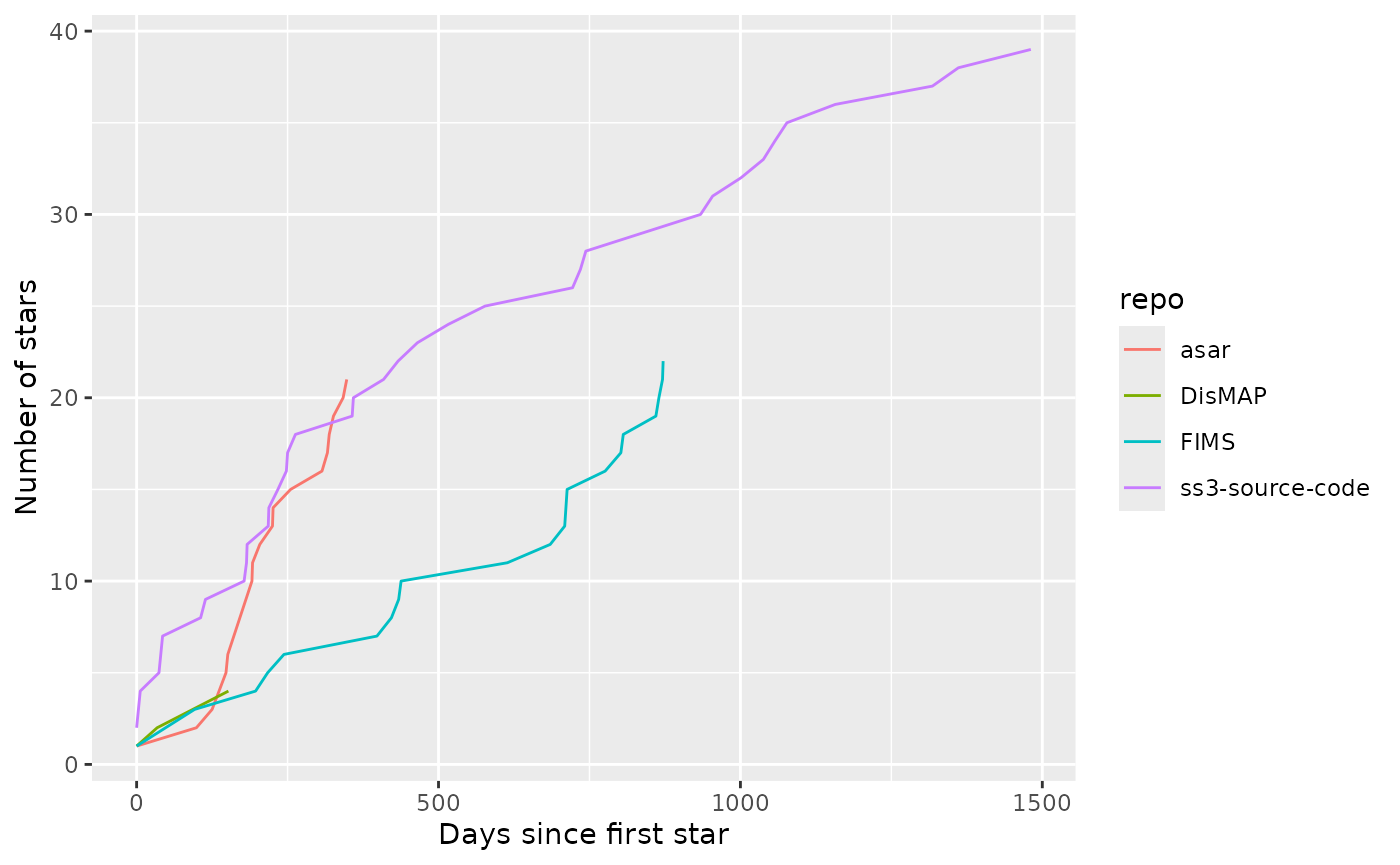
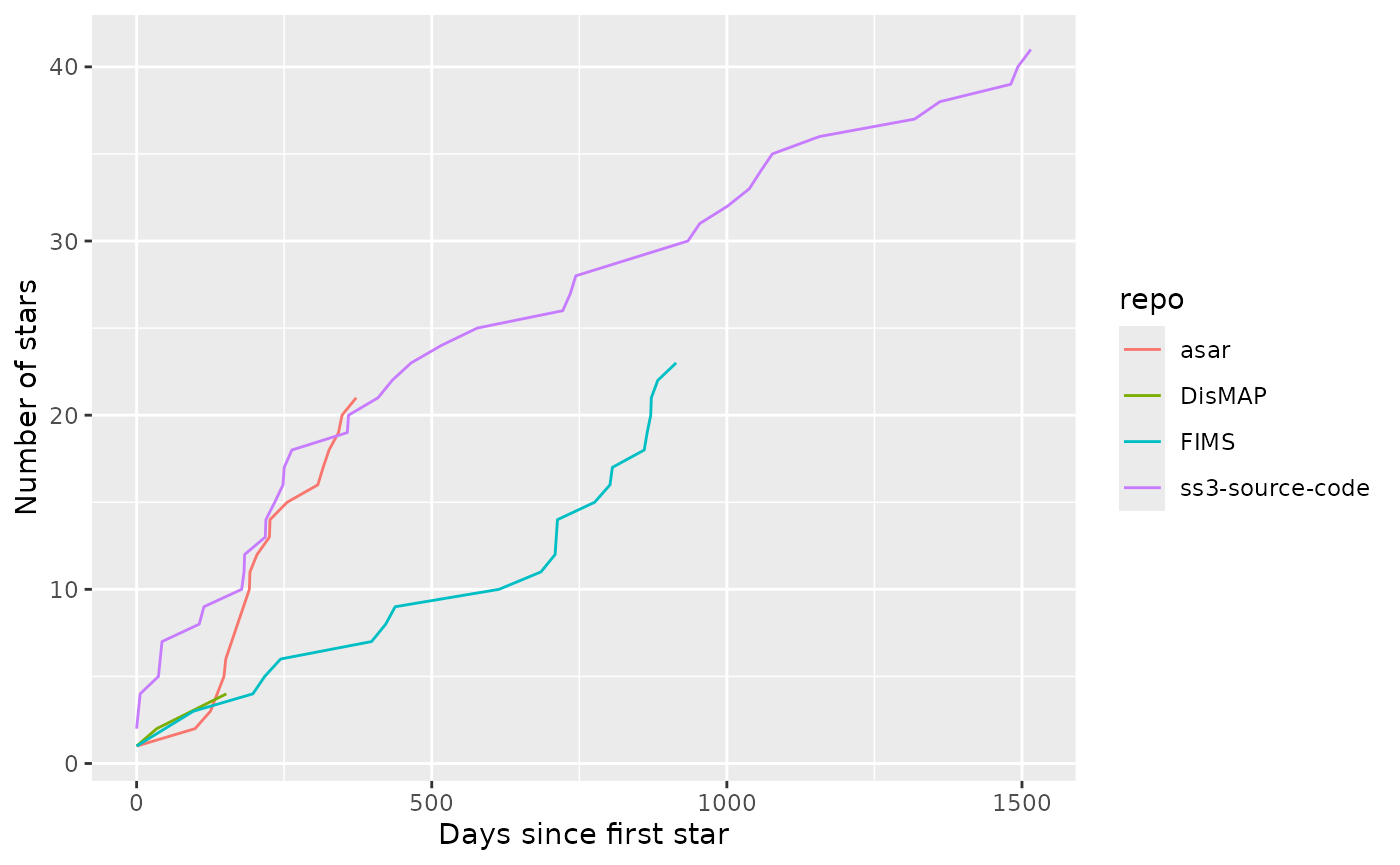
Built site for projectstats@0.0.0.9000: 07ed96b

diff --git a/articles/NSAP_summary.html b/articles/NSAP_summary.html
@@ -135,12 +135,12 @@ fork of someone else’s work.</p>
 </tr>
 <tr class="even">
 <td align="left">e-perl-NOAA</td>
-<td align="right">4</td>
+<td align="right">5</td>
 <td align="right">17</td>
 </tr>
 <tr class="odd">
 <td align="left">k-doering-NOAA</td>
-<td align="right">10</td>
+<td align="right">24</td>
 <td align="right">16</td>
 </tr>
 <tr class="even">
@@ -151,12 +151,12 @@ fork of someone else’s work.</p>
 <tr class="odd">
 <td align="left">Bai-Li-NOAA</td>
 <td align="right">6</td>
-<td align="right">12</td>
+<td align="right">11</td>
 </tr>
 <tr class="even">
 <td align="left">Schiano-NOAA</td>
-<td align="right">6</td>
-<td align="right">6</td>
+<td align="right">7</td>
+<td align="right">7</td>
 </tr>
 <tr class="odd">
 <td align="left">Andrea-Havron-NOAA</td>
@@ -170,15 +170,20 @@ fork of someone else’s work.</p>
 </tr>
 <tr class="odd">
 <td align="left">Melissa-Karp</td>
-<td align="right">2</td>
+<td align="right">3</td>
 <td align="right">3</td>
 </tr>
 <tr class="even">
+<td align="left">RoselynAguila-NOAA</td>
+<td align="right">NA</td>
+<td align="right">2</td>
+</tr>
+<tr class="odd">
 <td align="left">PatrickLynch-NOAA</td>
 <td align="right">2</td>
 <td align="right">1</td>
 </tr>
-<tr class="odd">
+<tr class="even">
 <td align="left">sbreitbart-NOAA</td>
 <td align="right">2</td>
 <td align="right">1</td>
@@ -203,12 +208,12 @@ Number of stars since the first day a repository was starred.
 
       <footer><div class="copyright">
   <p></p>
-<p>Developed by Christine Stawitz.</p>
+<p>Developed by Kelli F. Johnson, Christine C. Stawitz.</p>
 </div>
 
 <div class="pkgdown">
   <p></p>
-<p>Site built with <a href="https://pkgdown.r-lib.org/" class="external-link">pkgdown</a> 2.1.1.</p>
+<p>Site built with <a href="https://pkgdown.r-lib.org/" class="external-link">pkgdown</a> 2.1.2.</p>
 </div>
 
       </footer>

diff --git a/authors.html b/authors.html
@@ -50,7 +50,11 @@
 
 
       <ul class="list-unstyled"><li>
-          <p><strong>Christine Stawitz</strong>. Author, maintainer.
+          <p><strong>Kelli F. Johnson</strong>. Author, maintainer. <a href="https://orcid.org/0000-0002-5149-451X" target="orcid.widget" aria-label="ORCID" class="external-link"><span class="fab fa-orcid orcid" aria-hidden="true"></span></a>
+          </p>
+        </li>
+        <li>
+          <p><strong>Christine C. Stawitz</strong>. Author. <a href="https://orcid.org/0000-0003-3122-4501" target="orcid.widget" aria-label="ORCID" class="external-link"><span class="fab fa-orcid orcid" aria-hidden="true"></span></a>
           </p>
         </li>
       </ul></div>
@@ -62,13 +66,13 @@
     </div>
 
 
-    <p>Stawitz C (2025).
+    <p>Johnson KF, Stawitz CC (2025).
 <em>projectstats: Write Emails from Github API Outputs</em>.
 R package version 0.0.0.9000.
 </p>
     <pre>@Manual{,
   title = {projectstats: Write Emails from Github API Outputs},
-  author = {Christine Stawitz},
+  author = {Kelli F. Johnson and Christine C. Stawitz},
   year = {2025},
   note = {R package version 0.0.0.9000},
 }</pre>
@@ -80,11 +84,11 @@ R package version 0.0.0.9000.
 
 
       <footer><div class="copyright">
-  <p></p><p>Developed by Christine Stawitz.</p>
+  <p></p><p>Developed by Kelli F. Johnson, Christine C. Stawitz.</p>
 </div>
 
 <div class="pkgdown">
-  <p></p><p>Site built with <a href="https://pkgdown.r-lib.org/" class="external-link">pkgdown</a> 2.1.1.</p>
+  <p></p><p>Site built with <a href="https://pkgdown.r-lib.org/" class="external-link">pkgdown</a> 2.1.2.</p>
 </div>
 
       </footer></div>

diff --git a/index.html b/index.html
@@ -125,7 +125,8 @@
 <div class="developers">
 <h2 data-toc-skip>Developers</h2>
 <ul class="list-unstyled">
-<li>Christine Stawitz <br><small class="roles"> Author, maintainer </small>  </li>
+<li>Kelli F. Johnson <br><small class="roles"> Author, maintainer </small> <a href="https://orcid.org/0000-0002-5149-451X" target="orcid.widget" aria-label="ORCID" class="external-link"><span class="fab fa-orcid orcid" aria-hidden="true"></span></a>  </li>
+<li>Christine C. Stawitz <br><small class="roles"> Author </small> <a href="https://orcid.org/0000-0003-3122-4501" target="orcid.widget" aria-label="ORCID" class="external-link"><span class="fab fa-orcid orcid" aria-hidden="true"></span></a>  </li>
 </ul>
 </div>
 
@@ -137,12 +138,12 @@
 
       <footer><div class="copyright">
   <p></p>
-<p>Developed by Christine Stawitz.</p>
+<p>Developed by Kelli F. Johnson, Christine C. Stawitz.</p>
 </div>
 
 <div class="pkgdown">
   <p></p>
-<p>Site built with <a href="https://pkgdown.r-lib.org/" class="external-link">pkgdown</a> 2.1.1.</p>
+<p>Site built with <a href="https://pkgdown.r-lib.org/" class="external-link">pkgdown</a> 2.1.2.</p>
 </div>
 
       </footer>

diff --git a/reference/build_email.html b/reference/build_email.html
@@ -110,11 +110,11 @@ using <code><a href="https://rstudio.github.io/blastula/reference/smtp_send.html
 
 
       <footer><div class="copyright">
-  <p></p><p>Developed by Christine Stawitz.</p>
+  <p></p><p>Developed by Kelli F. Johnson, Christine C. Stawitz.</p>
 </div>
 
 <div class="pkgdown">
-  <p></p><p>Site built with <a href="https://pkgdown.r-lib.org/" class="external-link">pkgdown</a> 2.1.1.</p>
+  <p></p><p>Site built with <a href="https://pkgdown.r-lib.org/" class="external-link">pkgdown</a> 2.1.2.</p>
 </div>
 
       </footer></div>

diff --git a/reference/get_repositories.html b/reference/get_repositories.html
@@ -120,11 +120,11 @@ are:</p><ul><li><p>login: A string with the provided GitHub user name or organiz
 
 
       <footer><div class="copyright">
-  <p></p><p>Developed by Christine Stawitz.</p>
+  <p></p><p>Developed by Kelli F. Johnson, Christine C. Stawitz.</p>
 </div>
 
 <div class="pkgdown">
-  <p></p><p>Site built with <a href="https://pkgdown.r-lib.org/" class="external-link">pkgdown</a> 2.1.1.</p>
+  <p></p><p>Site built with <a href="https://pkgdown.r-lib.org/" class="external-link">pkgdown</a> 2.1.2.</p>
 </div>
 
       </footer></div>

diff --git a/reference/get_issues.html b/reference/get_issues.html
@@ -133,11 +133,11 @@ entries are NULL if it was in fact an issue. Columns include <code>url</code>,
 
 
       <footer><div class="copyright">
-  <p></p><p>Developed by Christine Stawitz.</p>
+  <p></p><p>Developed by Kelli F. Johnson, Christine C. Stawitz.</p>
 </div>
 
 <div class="pkgdown">
-  <p></p><p>Site built with <a href="https://pkgdown.r-lib.org/" class="external-link">pkgdown</a> 2.1.1.</p>
+  <p></p><p>Site built with <a href="https://pkgdown.r-lib.org/" class="external-link">pkgdown</a> 2.1.2.</p>
 </div>
 
       </footer></div>

diff --git a/reference/get_stargazers.html b/reference/get_stargazers.html
@@ -101,11 +101,11 @@ star was added to the repository compared when this star was added (day).</p>
 
 
       <footer><div class="copyright">
-  <p></p><p>Developed by Christine Stawitz.</p>
+  <p></p><p>Developed by Kelli F. Johnson, Christine C. Stawitz.</p>
 </div>
 
 <div class="pkgdown">
-  <p></p><p>Site built with <a href="https://pkgdown.r-lib.org/" class="external-link">pkgdown</a> 2.1.1.</p>
+  <p></p><p>Site built with <a href="https://pkgdown.r-lib.org/" class="external-link">pkgdown</a> 2.1.2.</p>
 </div>
 
       </footer></div>

diff --git a/reference/create_issue_table.html b/reference/create_issue_table.html
@@ -84,11 +84,11 @@ milestone, pull_request, and assignee. The table is returned as an
 
 
       <footer><div class="copyright">
-  <p></p><p>Developed by Christine Stawitz.</p>
+  <p></p><p>Developed by Kelli F. Johnson, Christine C. Stawitz.</p>
 </div>
 
 <div class="pkgdown">
-  <p></p><p>Site built with <a href="https://pkgdown.r-lib.org/" class="external-link">pkgdown</a> 2.1.1.</p>
+  <p></p><p>Site built with <a href="https://pkgdown.r-lib.org/" class="external-link">pkgdown</a> 2.1.2.</p>
 </div>
 
       </footer></div>

diff --git a/reference/create_pr_table.html b/reference/create_pr_table.html
@@ -84,11 +84,11 @@ milestone, pull_request, and assignee. The table is returned as an
 
 
       <footer><div class="copyright">
-  <p></p><p>Developed by Christine Stawitz.</p>
+  <p></p><p>Developed by Kelli F. Johnson, Christine C. Stawitz.</p>
 </div>
 
 <div class="pkgdown">
-  <p></p><p>Site built with <a href="https://pkgdown.r-lib.org/" class="external-link">pkgdown</a> 2.1.1.</p>
+  <p></p><p>Site built with <a href="https://pkgdown.r-lib.org/" class="external-link">pkgdown</a> 2.1.2.</p>
 </div>
 
       </footer></div>

diff --git a/reference/calculate_cumulative_stars.html b/reference/calculate_cumulative_stars.html
@@ -88,11 +88,11 @@ repository was starred.</p></li>
 
 
       <footer><div class="copyright">
-  <p></p><p>Developed by Christine Stawitz.</p>
+  <p></p><p>Developed by Kelli F. Johnson, Christine C. Stawitz.</p>
 </div>
 
 <div class="pkgdown">
-  <p></p><p>Site built with <a href="https://pkgdown.r-lib.org/" class="external-link">pkgdown</a> 2.1.1.</p>
+  <p></p><p>Site built with <a href="https://pkgdown.r-lib.org/" class="external-link">pkgdown</a> 2.1.2.</p>
 </div>
 
       </footer></div>

diff --git a/404.html b/404.html
@@ -86,12 +86,12 @@ Content not found. Please use links in the navbar.
 
       <footer><div class="copyright">
   <p></p>
-<p>Developed by Christine Stawitz.</p>
+<p>Developed by Kelli F. Johnson, Christine C. Stawitz.</p>
 </div>
 
 <div class="pkgdown">
   <p></p>
-<p>Site built with <a href="https://pkgdown.r-lib.org/" class="external-link">pkgdown</a> 2.1.1.</p>
+<p>Site built with <a href="https://pkgdown.r-lib.org/" class="external-link">pkgdown</a> 2.1.2.</p>
 </div>
 
       </footer>

diff --git a/LICENSE-text.html b/LICENSE-text.html
@@ -68,11 +68,11 @@ United States.
 
 
       <footer><div class="copyright">
-  <p></p><p>Developed by Christine Stawitz.</p>
+  <p></p><p>Developed by Kelli F. Johnson, Christine C. Stawitz.</p>
 </div>
 
 <div class="pkgdown">
-  <p></p><p>Site built with <a href="https://pkgdown.r-lib.org/" class="external-link">pkgdown</a> 2.1.1.</p>
+  <p></p><p>Site built with <a href="https://pkgdown.r-lib.org/" class="external-link">pkgdown</a> 2.1.2.</p>
 </div>
 
       </footer></div>
